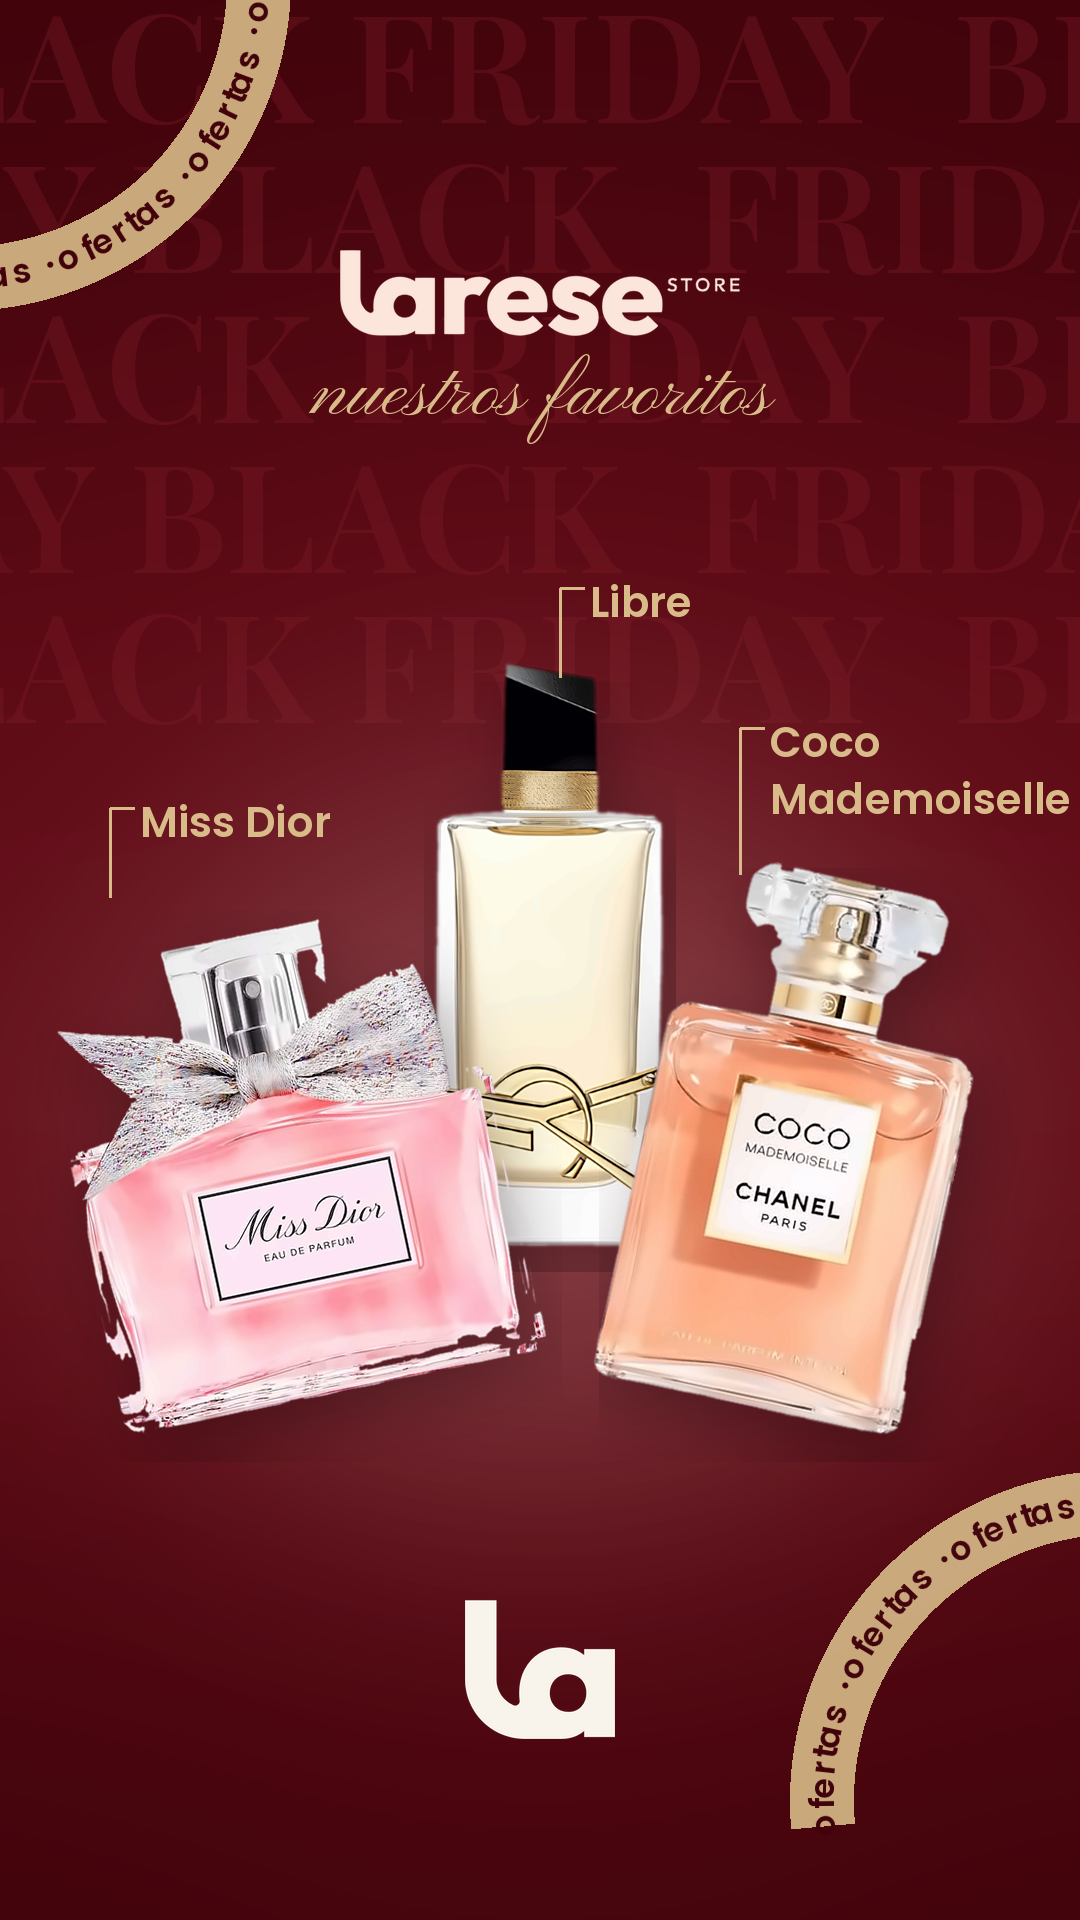
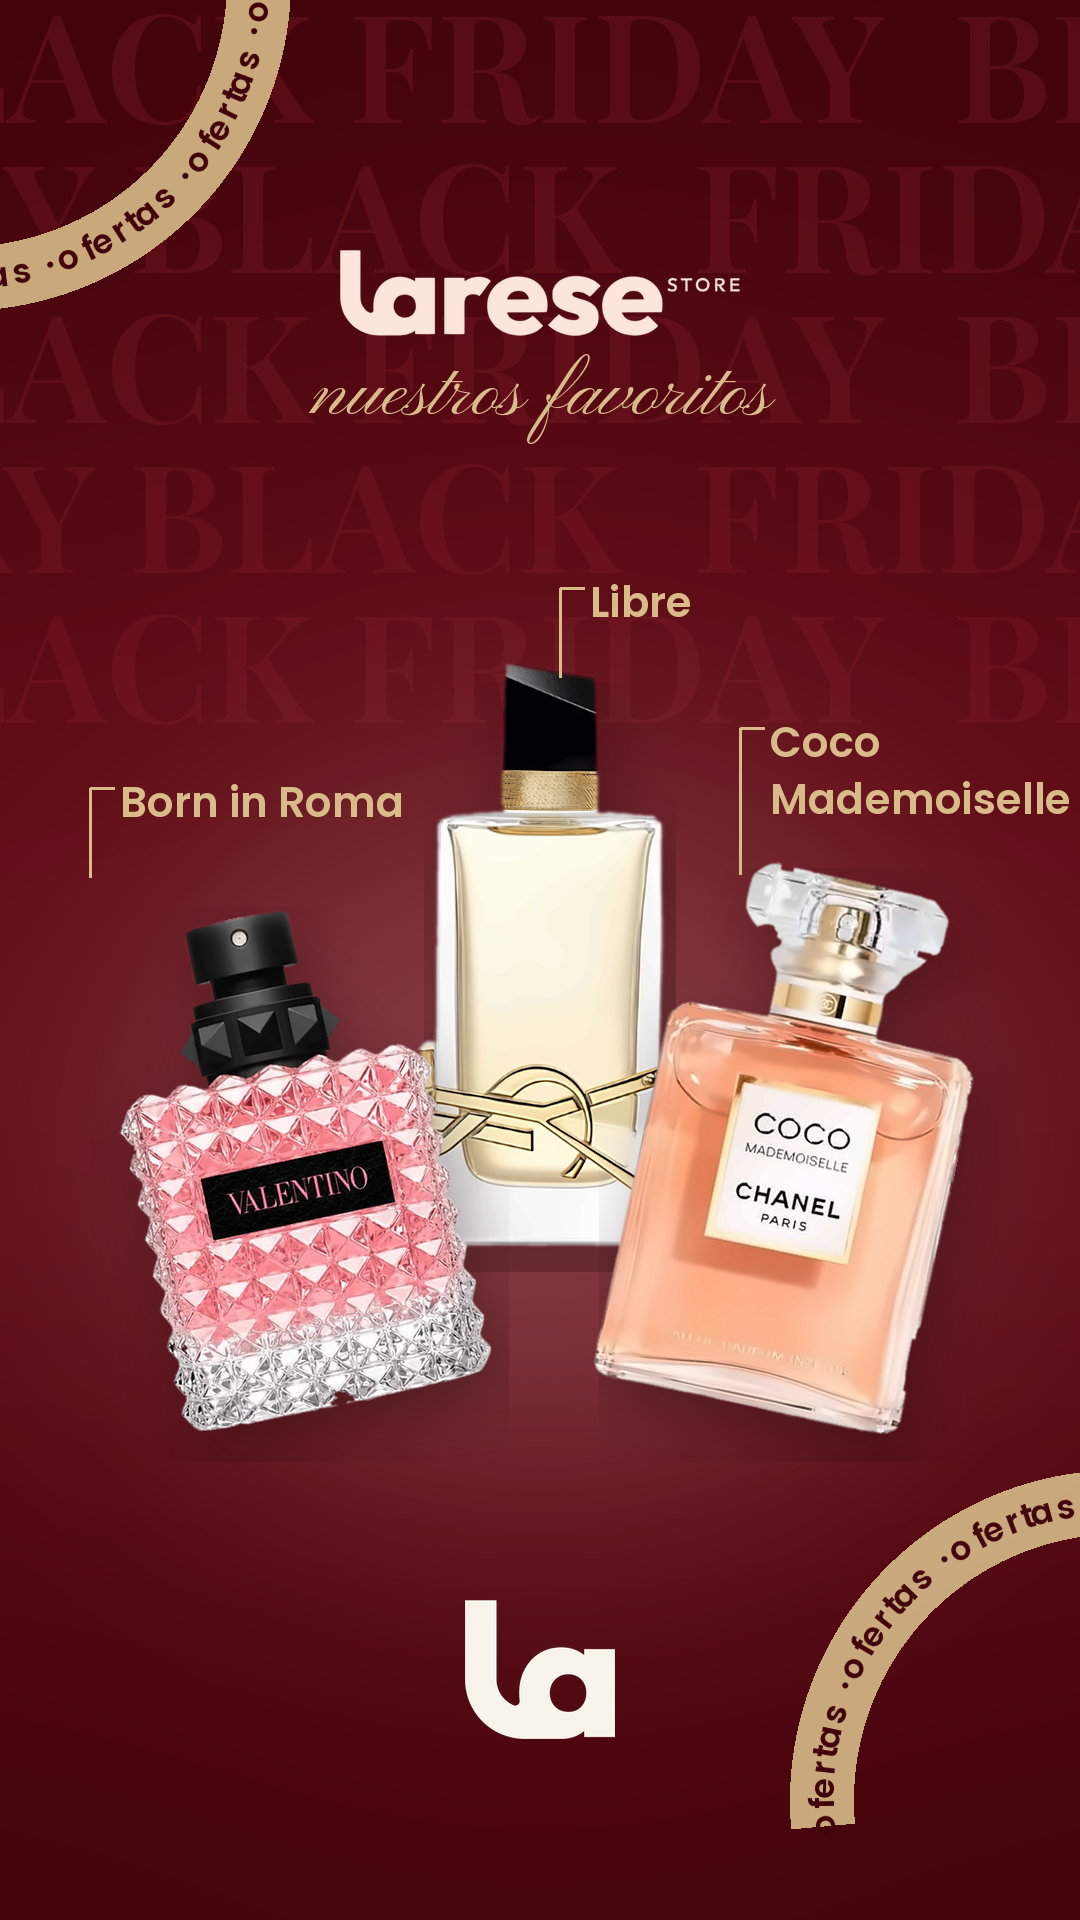
Top-3 story: Born in Roma Donna replaces Miss Dior (cleaner photo)
Claude-Session: https://claude.ai/code/session_01DnzkNLcZedFpQcyR6bg5VG

Changed region(s): [[0.0611, 0.4688, 0.5194, 0.75], [0.0917, 0.4062, 0.3667, 0.4375]]

diff --git a/historia-top3/crear.py b/historia-top3/crear.py
@@ -29,7 +29,7 @@ CINTA = (0xC9, 0xA9, 0x7C)
 
 # (nombre en la etiqueta, foto, centro x, base y, alto, giro, etiqueta: x, y)
 FRASCOS = [
-    ("Miss Dior", "miss-dior-x4.png", 290, 1440, 470, 12, (140, 800)),
+    ("Born in Roma", "born-in-roma-donna-x4.png", 290, 1440, 500, 12, (120, 780)),
     ("Libre", "10-libre-x4.png", 540, 1250, 590, 0, (590, 580)),
     ("Coco\nMademoiselle", "p-coco-mademoiselle-x4.png", 800, 1440, 540, -12, (770, 720)),
 ]
